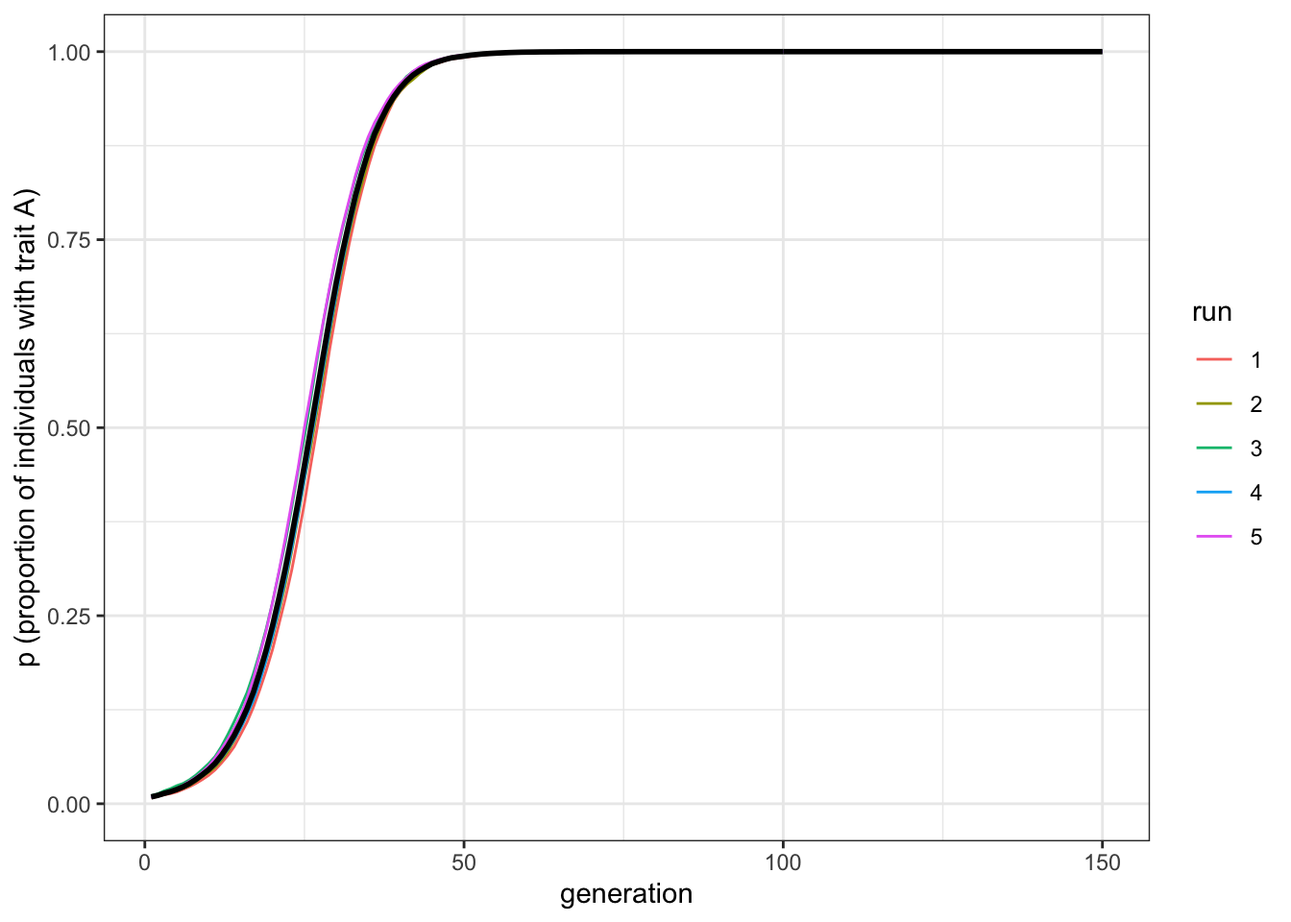
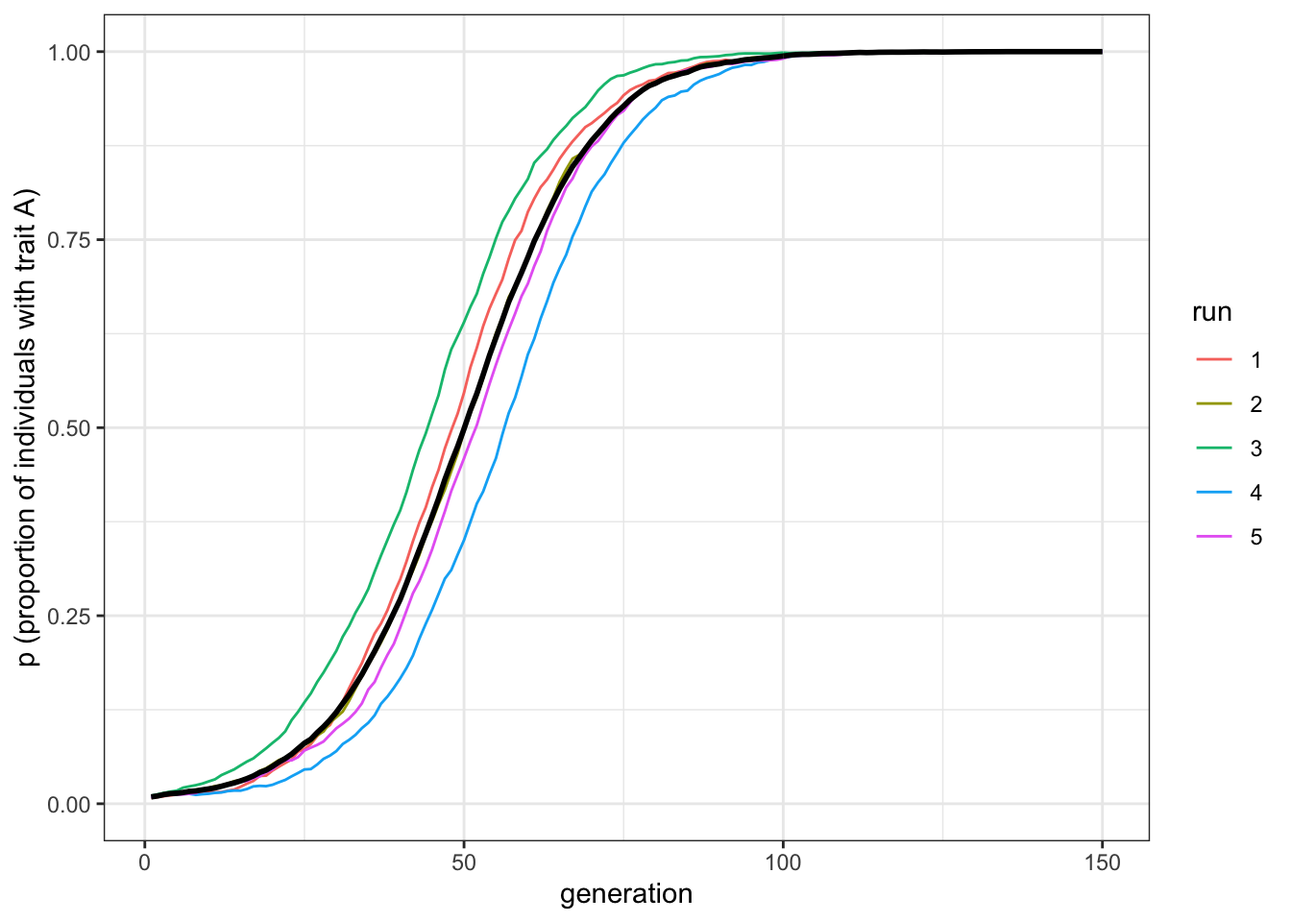
Finished chapter 3

Changed region(s): [[0.125, 0.0312, 0.6875, 0.875], [0.3125, 0.0625, 0.3438, 0.0938]]

diff --git a/_book/biased-transmission-directcontent-bias.html b/_book/biased-transmission-directcontent-bias.html
@@ -26,7 +26,7 @@
 <meta name="author" content="Marco Smolla" />
 
 
-<meta name="date" content="2019-09-03" />
+<meta name="date" content="2019-09-04" />
 
   <meta name="viewport" content="width=device-width, initial-scale=1" />
   <meta name="apple-mobile-web-app-capable" content="yes" />
@@ -156,7 +156,7 @@ code > span.in { color: #60a0b0; font-weight: bold; font-style: italic; } /* Inf
 <h1><span class="header-section-number">3</span> Biased transmission (direct/content bias)</h1>
 <p>So far we have looked at unbiased transmission (<a href="unbiased-transmission.html#unbiased-transmission">Chapter 1</a>) and mutation, both unbiased and biased (<a href="unbiased-and-biased-mutation.html#unbiased-and-biased-mutation">Chapter 2</a>). Let’s complete the set by looking at biased transmission. This occurs when one trait or one demonstrator is more likely to be copied than another trait or demonstrator. Trait-based copying is often called ‘direct’ or ‘content’ bias, while demonstrator-based copying is often called ‘indirect’ or ‘context’ bias. Both are sometimes also called ‘cultural selection’ because one thing (trait or demonstrator) is selected to be copied over another. In this chapter, we wil look at trait-based (direct, content) bias.</p>
 <p>(As an aside, there is a confusing array of terminology in the field of cultural evolution, as illustrated by the preceding paragraph. That’s why models are so useful. Words and verbal descriptions can be ambiguous. Often the writer doesn’t realise that there are hidden assumptions or unrecognised ambiguities in their descriptions. They may not realise that what they mean by ‘cultural selection’ is entirely different to how someone else uses it. Models are great because they force us to precisely specify exactly what we mean by a particular term or process. I can use the words in the paragraph above to describe biased transmission, but it’s only really clear when I model it, making all my assumptions explicit.)</p>
-<p>To simulate biased transmission, following the simulations in <a href="unbiased-transmission.html#unbiased-transmission">Chapter 1</a>,we assume there are two traits <span class="math inline">\(A\)</span> and <span class="math inline">\(B\)</span>, and that each individual chooses another individual from the previous generation at random. This time, however, we associate to the traits two different probabilities of being copied: we can call them, <span class="math inline">\(s_a\)</span> and <span class="math inline">\(s_b\)</span> respectively. When an individual encounter an individual with trait <span class="math inline">\(A\)</span>, they will copy them with probability <span class="math inline">\(s_a\)</span>, and when they encounter an individual with trait <span class="math inline">\(B\)</span>, they will copy them with probability <span class="math inline">\(s_b\)</span>. With <span class="math inline">\(s_a=s_b\)</span>, copying is unbiased, and individuals switch to the encountered alternative with the same probabilty. This reproduces the results of the simulations when transmission is unbiased. If <span class="math inline">\(s_a=s_b=1\)</span>, the model is exactly the same of <a href="unbiased-transmission.html#unbiased-transmission">Chapter 1</a>. The relevant situation is when <span class="math inline">\(s_a&gt;s_b\)</span> (or vice versa), so that we have biased transmission. Perhaps <span class="math inline">\(A\)</span> is a more effective tool, a more memorable story, or a more easily pronounced word.</p>
+<p>To simulate biased transmission, following the simulations in <a href="unbiased-transmission.html#unbiased-transmission">Chapter 1</a>,we assume there are two traits <span class="math inline">\(A\)</span> and <span class="math inline">\(B\)</span>, and that each individual chooses another individual from the previous generation at random. This time, however, we associate to the traits two different probabilities of being copied: we can call them, <span class="math inline">\(s_a\)</span> and <span class="math inline">\(s_b\)</span> respectively. When an individual encounter an individual with trait <span class="math inline">\(A\)</span>, they will copy them with probability <span class="math inline">\(s_a\)</span>, and when they encounter an individual with trait <span class="math inline">\(B\)</span>, they will copy them with probability <span class="math inline">\(s_b\)</span>. With <span class="math inline">\(s_a=s_b\)</span>, copying is unbiased, and individuals switch to the encountered alternative with the same probabilty. This reproduces the results of the simulations when transmission is unbiased. If <span class="math inline">\(s_a=s_b=1\)</span>, the model is exactly the same of <a href="unbiased-transmission.html#unbiased-transmission">Chapter 1</a>. The relevant situation is when <span class="math inline">\(s_a&gt;s_b\)</span> (or vice versa), so that we have biased transmission. Perhaps <span class="math inline">\(A\)</span> (or <span class="math inline">\(B\)</span>) is a more effective tool, a more memorable story, or a more easily pronounced word.</p>
 <p>Let’s first write the function, and then explore what happens in this case. Below is a function <code>biased_ransmission_direct()</code> that implements all of these ideas</p>
 <div class="sourceCode"><pre class="sourceCode r"><code class="sourceCode r"><span class="kw">library</span>(tidyverse)
 <span class="kw">set.seed</span>(<span class="dv">111</span>)
@@ -197,19 +197,22 @@ biased_ransmission_direct &lt;-<span class="st"> </span><span class="cf">functio
 <p>Most of <code>biased_ransmission_direct()</code> is recycled from the previous models. As before, we initalise the data structure <strong>output</strong> from multiple runs, and in generation <span class="math inline">\(t = 1\)</span>, we create a <strong>population</strong> tibble to hold the trait of each individual.</p>
 <p>The major change is that we now include biased transmission. We first select at random the demonstrators from the previous generation (using the same code we used in <code>unbiased_transmission()</code>) and we store their trait in <strong>demonstrator_trait</strong>. Then we get the probabilities to copy <span class="math inline">\(A\)</span> and to copy <span class="math inline">\(B\)</span> for all the population, using the same code used in <code>biased_mutation()</code>, only that this time it produces a probability to copy. Again using the same code as in <code>biased mutation()</code>, we have the individuals copy the trait at hand with the desired probability.</p>
 <p>Let’s run our function <code>biased_ransmission_direct()</code>. As before, to plot the results, we can use the same function <code>plot_multiple_runs()</code> we wrote in <a href="unbiased-transmission.html#unbiased-transmission">Chapter 1</a>.</p>
-<p>As we discussed, the interesting case is when one trait is favored with respect to the other. We can assume, for example, <span class="math inline">\(s_a=0.1\)</span> and <span class="math inline">\(s_b=0\)</span>. This means that when individuals encounter another individual with trait <span class="math inline">\(A\)</span> they copy them 1 every 10 times, but, when individuals encounter another individual with trait <span class="math inline">\(B\)</span>, they never switch. We can also assume that the favoured trait, <span class="math inline">\(A\)</span> is initially rare in the population (<span class="math inline">\(p_0=0.01\)</span>) to see how selection favours this initially-rare trait (since we are re not including any mutation in the model, we need to include at least some <span class="math inline">\(A\)</span>s at the beginning of the simulation, otherwise it would never appear).</p>
+<p>As we discussed, the interesting case is when one trait is favored with respect to the other. We can assume, for example, <span class="math inline">\(s_a=0.1\)</span> and <span class="math inline">\(s_b=0\)</span>. This means that when individuals encounter another individual with trait <span class="math inline">\(A\)</span> they copy them 1 every 10 times, but, when individuals encounter another individual with trait <span class="math inline">\(B\)</span>, they never switch. We can also assume that the favoured trait, <span class="math inline">\(A\)</span>, is initially rare in the population (<span class="math inline">\(p_0=0.01\)</span>) to see how selection favours this initially-rare trait (<span class="math inline">\(p_0\)</span> needs to be higher than 0. Since we are re not including any mutation in the model, we need to include at least some <span class="math inline">\(A\)</span>s at the beginning of the simulation, otherwise it would never appear).</p>
 <div class="sourceCode"><pre class="sourceCode r"><code class="sourceCode r">data_model &lt;-<span class="st"> </span><span class="kw">biased_ransmission_direct</span>(<span class="dt">N =</span> <span class="dv">10000</span>, <span class="dt">s_a =</span> <span class="fl">0.1</span>, <span class="dt">s_b =</span> <span class="dv">0</span> , <span class="dt">p_0 =</span> <span class="fl">0.01</span>, <span class="dt">t_max =</span> <span class="dv">150</span>, <span class="dt">r_max =</span> <span class="dv">5</span>)
 <span class="kw">plot_multiple_runs</span>(data_model)</code></pre></div>
 <p><img src="_main_files/figure-html/3.3-1.png" width="672" /></p>
 <p>With a moderate selection strength we can see that <span class="math inline">\(A\)</span> gradually replaces <span class="math inline">\(B\)</span> and goes to fixation. It does this in a characteristic manner: the increase is slow at first, then picks up speed, then plateaus.</p>
-<p>Note the difference to biased mutation. Where biased mutation was r-shaped, with a steep initial increase, biased transmission is s-shaped, with an initial slow uptake. This is because the strength of biased transmission (like selection in general) is proportional to the variation in the population. When <span class="math inline">\(A\)</span> is rare initially, there is only a small chance of picking another agent with <span class="math inline">\(A\)</span>. As <span class="math inline">\(A\)</span> spreads, the chances of picking an <span class="math inline">\(A\)</span> agent increases. As <span class="math inline">\(A\)</span> becomes very common, there are few <span class="math inline">\(B\)</span> agents left to switch. In the case of biased mutation, instead, the probability to switch is independent from the variation in the population.</p>
-<p>Note also that the strength of the selection is independent from the specific values of <span class="math inline">\(s_a\)</span> and <span class="math inline">\(s_b\)</span>. What counts is their relative difference, in this case <span class="math inline">\(s_a-s_b = 0.1\)</span>). If you run a simulation whith, say, <span class="math inline">\(s_a=0.6\)</span> and <span class="math inline">\(s_b=0.5\)</span> you should observe the same pattern, with perhaps more noise due to the fact that also switches from <span class="math inline">\(A\)</span> to <span class="math inline">\(B\)</span> are possible.</p>
+<p>Note the difference to biased mutation. Where biased mutation was r-shaped, with a steep initial increase, biased transmission is s-shaped, with an initial slow uptake. This is because the strength of biased transmission (like selection in general) is proportional to the variation in the population. When <span class="math inline">\(A\)</span> is rare initially, there is only a small chance of picking another individual with <span class="math inline">\(A\)</span>. As <span class="math inline">\(A\)</span> spreads, the chances of picking an <span class="math inline">\(A\)</span> individual increases. As <span class="math inline">\(A\)</span> becomes very common, there are few <span class="math inline">\(B\)</span> individuals left to switch. In the case of biased mutation, instead, the probability to switch is independent from the variation in the population.</p>
 <div id="strenght-of-selection" class="section level2">
 <h2><span class="header-section-number">3.1</span> Strenght of selection</h2>
-<p>Let’s then change the selection strength, doubling it by seeting <span class="math inline">\(s_a = 0.2\)</span>, and keeping <span class="math inline">\(s_b=0\)</span>.</p>
-<div class="sourceCode"><pre class="sourceCode r"><code class="sourceCode r">data_model &lt;-<span class="st"> </span><span class="kw">biased_ransmission_direct</span>(<span class="dt">N =</span> <span class="dv">10000</span>, <span class="dt">s_a =</span> <span class="fl">0.2</span>, <span class="dt">s_b =</span> <span class="dv">0</span> , <span class="dt">p_0 =</span> <span class="fl">0.01</span>, <span class="dt">t_max =</span> <span class="dv">150</span>, <span class="dt">r_max =</span> <span class="dv">5</span>)
+<p>From what does the strength of the selection depend? First, the strength is independent from the specific values of <span class="math inline">\(s_a\)</span> and <span class="math inline">\(s_b\)</span>. What counts is their relative difference, in this case <span class="math inline">\(s_a-s_b = 0.1\)</span>. We can try and run a simulation whith, say, <span class="math inline">\(s_a=0.6\)</span> and <span class="math inline">\(s_b=0.5\)</span>. We observe the same pattern, with slighlty more noise - the single runs are more different one another with respect to the previois simulation - due to the fact that switches from <span class="math inline">\(A\)</span> to <span class="math inline">\(B\)</span> are also possible.</p>
+<div class="sourceCode"><pre class="sourceCode r"><code class="sourceCode r">data_model &lt;-<span class="st"> </span><span class="kw">biased_ransmission_direct</span>(<span class="dt">N =</span> <span class="dv">10000</span>, <span class="dt">s_a =</span> <span class="fl">0.6</span>, <span class="dt">s_b =</span> <span class="fl">0.5</span> , <span class="dt">p_0 =</span> <span class="fl">0.01</span>, <span class="dt">t_max =</span> <span class="dv">150</span>, <span class="dt">r_max =</span> <span class="dv">5</span>)
 <span class="kw">plot_multiple_runs</span>(data_model)</code></pre></div>
 <p><img src="_main_files/figure-html/3.4-1.png" width="672" /></p>
+<p>To change the selection strength, we need to modify the difference between <span class="math inline">\(s_a\)</span> and <span class="math inline">\(s_b\)</span>. We can double the strenght by setting <span class="math inline">\(s_a = 0.2\)</span>, and keeping <span class="math inline">\(s_b=0\)</span>.</p>
+<div class="sourceCode"><pre class="sourceCode r"><code class="sourceCode r">data_model &lt;-<span class="st"> </span><span class="kw">biased_ransmission_direct</span>(<span class="dt">N =</span> <span class="dv">10000</span>, <span class="dt">s_a =</span> <span class="fl">0.2</span>, <span class="dt">s_b =</span> <span class="dv">0</span> , <span class="dt">p_0 =</span> <span class="fl">0.01</span>, <span class="dt">t_max =</span> <span class="dv">150</span>, <span class="dt">r_max =</span> <span class="dv">5</span>)
+<span class="kw">plot_multiple_runs</span>(data_model)</code></pre></div>
+<p><img src="_main_files/figure-html/3.5-1.png" width="672" /></p>
 <p>As we might expect, increasing the strength of selection increases the speed with which <span class="math inline">\(A\)</span> goes to fixation. Note, though, that it retains the s-shape.</p>
 <hr />
 </div>
@@ -220,26 +223,33 @@ biased_ransmission_direct &lt;-<span class="st"> </span><span class="cf">functio
 </div>
 <div id="analytical-appendix-2" class="section level2">
 <h2><span class="header-section-number">3.3</span> Analytical appendix</h2>
-<p>As before, we have <span class="math inline">\(p\)</span> agents with trait <span class="math inline">\(A\)</span>, and <span class="math inline">\(1 - p\)</span> agents with trait <span class="math inline">\(B\)</span>. The <span class="math inline">\(p\)</span> agents with trait <span class="math inline">\(A\)</span> always keep their <span class="math inline">\(A\)</span>s, because <span class="math inline">\(A\)</span> is favoured by biased transmission. The <span class="math inline">\(1 - p\)</span> agents with trait <span class="math inline">\(B\)</span> pick another agent at random, hence with probability <span class="math inline">\(p\)</span>, and with probability <span class="math inline">\(s\)</span> they switch to trait <span class="math inline">\(A\)</span>. We can therefore write the recursion for <span class="math inline">\(p\)</span> under biased transmission as:</p>
+<p>As before, we have <span class="math inline">\(p\)</span> individuals with trait <span class="math inline">\(A\)</span>, and <span class="math inline">\(1 - p\)</span> individuals with trait <span class="math inline">\(B\)</span>. As we saw that what is important is the relative difference between the two probabilites of being copied associated to the two traits and not their absolute value, we consider always <span class="math inline">\(s_b=0\)</span>, and vary <span class="math inline">\(s_a\)</span>, which we can call simply <span class="math inline">\(s\)</span>. Thus, the <span class="math inline">\(p\)</span> individuals with trait <span class="math inline">\(A\)</span> always keep their <span class="math inline">\(A\)</span>s. The <span class="math inline">\(1 - p\)</span> individuals with trait <span class="math inline">\(B\)</span> pick another individual at random, hence with probability <span class="math inline">\(p\)</span>, and with probability <span class="math inline">\(s\)</span> they switch to trait <span class="math inline">\(A\)</span>. We can therefore write the recursion for <span class="math inline">\(p\)</span> under biased transmission as:</p>
 <p><span class="math display">\[p&#39; = p + p(1-p)s                \hspace{30 mm}(3.1)\]</span></p>
 <p>The first term on the right-hand side is the unchanged <span class="math inline">\(A\)</span> bearers, and the second term is the <span class="math inline">\(1-p\)</span> <span class="math inline">\(B\)</span>-bearers who find one of the <span class="math inline">\(p\)</span> <span class="math inline">\(A\)</span>-bearers and switch with probability <span class="math inline">\(s\)</span>.</p>
 <p>Here is some code to plot this biased transmission recursion:</p>
-<div class="sourceCode"><pre class="sourceCode r"><code class="sourceCode r">p &lt;-<span class="st"> </span><span class="kw">rep</span>(<span class="dv">0</span>, <span class="dv">150</span>)
-p[<span class="dv">1</span>] &lt;-<span class="st"> </span><span class="fl">0.01</span>
+<div class="sourceCode"><pre class="sourceCode r"><code class="sourceCode r">t_max &lt;-<span class="st"> </span><span class="dv">150</span>
 s &lt;-<span class="st"> </span><span class="fl">0.1</span>
 
-<span class="cf">for</span> (i <span class="cf">in</span> <span class="dv">2</span><span class="op">:</span><span class="dv">150</span>) {
-  p[i] &lt;-<span class="st"> </span>p[i<span class="op">-</span><span class="dv">1</span>] <span class="op">+</span><span class="st"> </span>p[i<span class="op">-</span><span class="dv">1</span>]<span class="op">*</span>(<span class="dv">1</span><span class="op">-</span>p[i<span class="op">-</span><span class="dv">1</span>])<span class="op">*</span>s
+pop_analytical &lt;-<span class="st"> </span><span class="kw">tibble</span>(<span class="dt">p =</span> <span class="kw">rep</span>(<span class="ot">NA</span>, t_max), <span class="dt">generation =</span> <span class="dv">1</span><span class="op">:</span>t_max)
+pop_analytical<span class="op">$</span>p[<span class="dv">1</span>] &lt;-<span class="st"> </span><span class="fl">0.01</span>
+
+<span class="cf">for</span> (i <span class="cf">in</span> <span class="dv">2</span><span class="op">:</span>t_max) {
+  pop_analytical<span class="op">$</span>p[i] &lt;-<span class="st"> </span>pop_analytical<span class="op">$</span>p[i <span class="op">-</span><span class="st"> </span><span class="dv">1</span>] <span class="op">+</span><span class="st"> </span>pop_analytical<span class="op">$</span>p[i <span class="op">-</span><span class="st"> </span><span class="dv">1</span>] <span class="op">*</span><span class="st"> </span>(<span class="dv">1</span> <span class="op">-</span><span class="st"> </span>pop_analytical<span class="op">$</span>p[i <span class="op">-</span><span class="st"> </span><span class="dv">1</span>]) <span class="op">*</span><span class="st"> </span>s
 }
 
-<span class="kw">plot</span>(p, <span class="dt">type =</span> <span class="st">&#39;l&#39;</span>, <span class="dt">ylab =</span> <span class="st">&quot;p, proportion of agents with trait A&quot;</span>, <span class="dt">xlab =</span> <span class="st">&quot;generation&quot;</span>, <span class="dt">ylim =</span> <span class="kw">c</span>(<span class="dv">0</span>,<span class="dv">1</span>), <span class="dt">lwd =</span> <span class="dv">3</span>, <span class="dt">main =</span> <span class="kw">paste</span>(<span class="st">&quot;s = &quot;</span>, s, <span class="dt">sep =</span> <span class="st">&quot;&quot;</span>))</code></pre></div>
-<p><img src="_main_files/figure-html/3.5-1.png" width="672" /></p>
+<span class="kw">ggplot</span>(<span class="dt">data =</span> pop_analytical, <span class="kw">aes</span>(<span class="dt">y =</span> p, <span class="dt">x =</span> generation)) <span class="op">+</span>
+<span class="st">  </span><span class="kw">geom_line</span>() <span class="op">+</span>
+<span class="st">  </span><span class="kw">ylim</span>(<span class="kw">c</span>(<span class="dv">0</span>, <span class="dv">1</span>)) <span class="op">+</span>
+<span class="st">  </span><span class="kw">theme_bw</span>() <span class="op">+</span>
+<span class="st">  </span><span class="kw">labs</span>(<span class="dt">y =</span> <span class="st">&quot;p (proportion of individuals with trait A)&quot;</span>)</code></pre></div>
+<p><img src="_main_files/figure-html/3.6-1.png" width="672" /></p>
 <p>The curve above should be identical to the simulation curve, given that the simulation had the same biased transmission strength <span class="math inline">\(s\)</span> and a large enough <span class="math inline">\(N\)</span> to minimise stochasticity.</p>
-<p>From the equation above, we can see how the strength of biased transmission depends on variation in the population, given that <span class="math inline">\(p (1 - p)\)</span> is the formula for variation. This determines the shape of the curve, while <span class="math inline">\(s\)</span> determines the speed with which the equilibrium <span class="math inline">\(p^*\)</span> is reached.</p>
+<p>From the equation above, we can see how the strength of biased transmission depends on variation in the population, given that <span class="math inline">\(p(1 - p)\)</span> is the formula for variation. This determines the shape of the curve, while <span class="math inline">\(s\)</span> determines the speed with which the equilibrium <span class="math inline">\(p^*\)</span> is reached.</p>
 <p>But what is the equilibrium <span class="math inline">\(p^*\)</span> here? In fact there are two. As before, the equilibrium can be found by setting the change in <span class="math inline">\(p\)</span> to zero, or when:</p>
 <p><span class="math display">\[p(1-p)s = 0                 \hspace{30 mm}(3.2)\]</span></p>
 <p>There are three ways in which the left-hand side can equal zero: when <span class="math inline">\(p = 0\)</span>, when <span class="math inline">\(p = 1\)</span> and when <span class="math inline">\(s = 0\)</span>. The last case is uninteresting: it would mean that biased transmission is not occurring. The first two cases simply say that if either trait reaches fixation, then it will stay at fixation. This is to be expected, given that we have no mutation in our model. It contrasts with unbiased and biased mutation, where there is only one equlibrium value of <span class="math inline">\(p\)</span>.</p>
 <p>We can also say that <span class="math inline">\(p = 0\)</span> is an unstable equilibrium, meaning that any slight perturbation away from <span class="math inline">\(p = 0\)</span> moves <span class="math inline">\(p\)</span> away from that value. This is essentially what we simulated above: a slight perturbation up to <span class="math inline">\(p = 0.01\)</span> went all the way up to <span class="math inline">\(p = 1\)</span>. In contrast, <span class="math inline">\(p = 1\)</span> is a stable equilibrium: any slight perturbation from <span class="math inline">\(p = 1\)</span> immediately goes back to <span class="math inline">\(p = 1\)</span>.</p>
+<hr />
 
 </div>
 </div>

diff --git a/_book/biased-transmission-conformist-bias.html b/_book/biased-transmission-conformist-bias.html
@@ -26,7 +26,7 @@
 <meta name="author" content="Marco Smolla" />
 
 
-<meta name="date" content="2019-09-03" />
+<meta name="date" content="2019-09-04" />
 
   <meta name="viewport" content="width=device-width, initial-scale=1" />
   <meta name="apple-mobile-web-app-capable" content="yes" />
@@ -254,24 +254,24 @@ agent &lt;-<span class="st"> </span><span class="kw">data.frame</span>(<span cla
 
 <span class="kw">head</span>(agent)</code></pre></div>
 <pre><code>##   trait
-## 1     B
-## 2     B
+## 1     A
+## 2     A
 ## 3     A
-## 4     B
+## 4     A
 ## 5     A
-## 6     B</code></pre>
+## 6     A</code></pre>
 <p>Now we’ll create a dataframe called <em>demonstrators</em> that picks, for each new agent in the next generation, three demonstrators at random from the current population of agents. It therefore needs three columns/variables, one for each of the demonstrators, and <span class="math inline">\(N\)</span> rows, one for each new agent. We fill each column with randomly chosen traits from the <em>agent</em> dataframe. We can view this with <strong>head</strong>.</p>
 <div class="sourceCode"><pre class="sourceCode r"><code class="sourceCode r"><span class="co"># create dataframe with a set of 3 randomly-picked demonstrators for each agent</span>
 demonstrators &lt;-<span class="st"> </span><span class="kw">data.frame</span>(<span class="dt">dem1 =</span> <span class="kw">sample</span>(agent<span class="op">$</span>trait, N, <span class="dt">replace =</span> <span class="ot">TRUE</span>), <span class="dt">dem2 =</span> <span class="kw">sample</span>(agent<span class="op">$</span>trait, N, <span class="dt">replace =</span> <span class="ot">TRUE</span>), <span class="dt">dem3 =</span> <span class="kw">sample</span>(agent<span class="op">$</span>trait, N, <span class="dt">replace =</span> <span class="ot">TRUE</span>), <span class="dt">stringsAsFactors =</span> F)
 
 <span class="kw">head</span>(demonstrators)</code></pre></div>
 <pre><code>##   dem1 dem2 dem3
-## 1    B    B    B
-## 2    B    B    A
-## 3    A    B    B
-## 4    B    A    B
+## 1    B    B    A
+## 2    A    A    B
+## 3    A    B    A
+## 4    A    A    A
 ## 5    A    A    B
-## 6    B    B    B</code></pre>
+## 6    B    A    A</code></pre>
 <p>Think of each row here as containing the traits of three randomly-chosen demonstrators chosen by each new next-generation agent. Now we want to calculate the probability of adoption of <span class="math inline">\(A\)</span> for each of these three-trait demonstrator combinations.</p>
 <p>First we need to get the number of <span class="math inline">\(A\)</span>s in each combination. Then we can replace the traits in <em>agent</em> based on the probabilities in Table 1. When all demonstrators have <span class="math inline">\(A\)</span>, we set to <span class="math inline">\(A\)</span>. When no demonstrators have <span class="math inline">\(A\)</span>, we set to <span class="math inline">\(B\)</span>. When two out of three demonstrators have <span class="math inline">\(A\)</span>, we set to <span class="math inline">\(A\)</span> with probability <span class="math inline">\(2/3 + D/3\)</span> and <span class="math inline">\(B\)</span> otherwise. When one out of three demonstrators have <span class="math inline">\(A\)</span>, we set to <span class="math inline">\(A\)</span> with probability <span class="math inline">\(1/3 - D/3\)</span> and <span class="math inline">\(B\)</span> otherwise.</p>
 <p>To check it works, we can add the new <em>agent</em> dataframe as a column to <em>demonstrators</em> and view the latter with <strong>head</strong>. This will let us see the three demonstrators and the resulting new trait side by side.</p>
@@ -295,25 +295,25 @@ agent<span class="op">$</span>trait[numAs <span class="op">==</span><span class=
 demonstrators<span class="op">$</span>newtrait &lt;-<span class="st"> </span>agent<span class="op">$</span>trait
 <span class="kw">head</span>(demonstrators, <span class="dv">20</span>)</code></pre></div>
 <pre><code>##    dem1 dem2 dem3 newtrait
-## 1     B    B    B        B
-## 2     B    B    A        B
-## 3     A    B    B        B
-## 4     B    A    B        B
+## 1     B    B    A        B
+## 2     A    A    B        A
+## 3     A    B    A        A
+## 4     A    A    A        A
 ## 5     A    A    B        A
-## 6     B    B    B        B
+## 6     B    A    A        A
 ## 7     A    A    A        A
 ## 8     A    B    A        A
-## 9     B    B    B        B
-## 10    B    A    A        A
-## 11    B    A    A        A
-## 12    B    B    A        B
+## 9     A    B    B        B
+## 10    A    A    B        A
+## 11    B    B    A        B
+## 12    A    A    A        A
 ## 13    A    A    B        A
-## 14    B    B    B        B
+## 14    A    A    A        A
 ## 15    A    A    A        A
-## 16    A    B    A        A
-## 17    B    B    B        B
-## 18    B    A    A        A
-## 19    B    B    A        B
+## 16    B    A    A        A
+## 17    A    B    A        A
+## 18    A    A    B        A
+## 19    A    B    B        B
 ## 20    A    A    B        A</code></pre>
 <p>Because we set <span class="math inline">\(D=1\)</span> above, we should see above that the new trait is always the majority trait amongst the three demonstrators. This is perfect conformity. We can weaken conformity by reducing <span class="math inline">\(D\)</span>, in the code below.</p>
 <div class="sourceCode"><pre class="sourceCode r"><code class="sourceCode r">N &lt;-<span class="st"> </span><span class="dv">100</span>
@@ -345,26 +345,26 @@ agent<span class="op">$</span>trait[numAs <span class="op">==</span><span class=
 demonstrators<span class="op">$</span>newtrait &lt;-<span class="st"> </span>agent<span class="op">$</span>trait
 <span class="kw">head</span>(demonstrators, <span class="dv">20</span>)</code></pre></div>
 <pre><code>##    dem1 dem2 dem3 newtrait
-## 1     A    B    B        A
-## 2     A    A    B        A
-## 3     A    A    A        A
-## 4     A    A    A        A
-## 5     A    A    A        A
-## 6     A    B    B        B
-## 7     A    B    B        B
-## 8     A    A    B        A
-## 9     B    B    A        B
-## 10    B    A    B        B
-## 11    B    B    B        B
-## 12    B    A    B        B
-## 13    A    A    B        A
-## 14    A    B    A        B
-## 15    A    A    B        A
-## 16    A    B    A        A
-## 17    B    A    B        B
+## 1     A    B    A        A
+## 2     A    B    B        A
+## 3     B    B    B        B
+## 4     B    B    B        B
+## 5     A    A    B        B
+## 6     B    B    A        B
+## 7     A    B    A        A
+## 8     B    A    A        A
+## 9     A    B    B        B
+## 10    A    A    A        A
+## 11    A    B    B        B
+## 12    B    A    A        A
+## 13    A    A    B        B
+## 14    A    B    B        A
+## 15    B    A    B        B
+## 16    B    B    B        B
+## 17    A    A    A        A
 ## 18    A    B    A        A
-## 19    B    A    A        A
-## 20    A    B    A        A</code></pre>
+## 19    B    A    B        A
+## 20    A    B    B        B</code></pre>
 <p>Now that conformity is weaker, sometimes the new trait is not the majority amongst the three demonstrators. With the small sample shown above, it’s perhaps not possible to notice it. Hopefully when we put it all together now into a function and run it over multiple generations, we will notice an effect. The code below is a combination of Model 1 (unbiased transmission) and the code above for conformity.</p>
 <div class="sourceCode"><pre class="sourceCode r"><code class="sourceCode r">ConformistTransmission &lt;-<span class="st"> </span><span class="cf">function</span> (N, p_<span class="dv">0</span>, D, t_max, r_max) {
   

diff --git a/_book/index.html b/_book/index.html
@@ -26,7 +26,7 @@
 <meta name="author" content="Marco Smolla" />
 
 
-<meta name="date" content="2019-09-03" />
+<meta name="date" content="2019-09-04" />
 
   <meta name="viewport" content="width=device-width, initial-scale=1" />
   <meta name="apple-mobile-web-app-capable" content="yes" />
@@ -158,7 +158,7 @@ code > span.in { color: #60a0b0; font-weight: bold; font-style: italic; } /* Inf
 <p class="author"><em>Alberto Acerbi</em></p>
 <p class="author"><em>Alex Mesoudi</em></p>
 <p class="author"><em>Marco Smolla</em></p>
-<p class="date"><em>2019-09-03</em></p>
+<p class="date"><em>2019-09-04</em></p>
 </div>
 <div id="Introduction" class="section level1 unnumbered">
 <h1>Introduction</h1>

diff --git a/_book/unbiased-and-biased-mutation.html b/_book/unbiased-and-biased-mutation.html
@@ -26,7 +26,7 @@
 <meta name="author" content="Marco Smolla" />
 
 
-<meta name="date" content="2019-09-03" />
+<meta name="date" content="2019-09-04" />
 
   <meta name="viewport" content="width=device-width, initial-scale=1" />
   <meta name="apple-mobile-web-app-capable" content="yes" />

diff --git a/_book/unbiased-transmission.html b/_book/unbiased-transmission.html
@@ -26,7 +26,7 @@
 <meta name="author" content="Marco Smolla" />
 
 
-<meta name="date" content="2019-09-03" />
+<meta name="date" content="2019-09-04" />
 
   <meta name="viewport" content="width=device-width, initial-scale=1" />
   <meta name="apple-mobile-web-app-capable" content="yes" />
